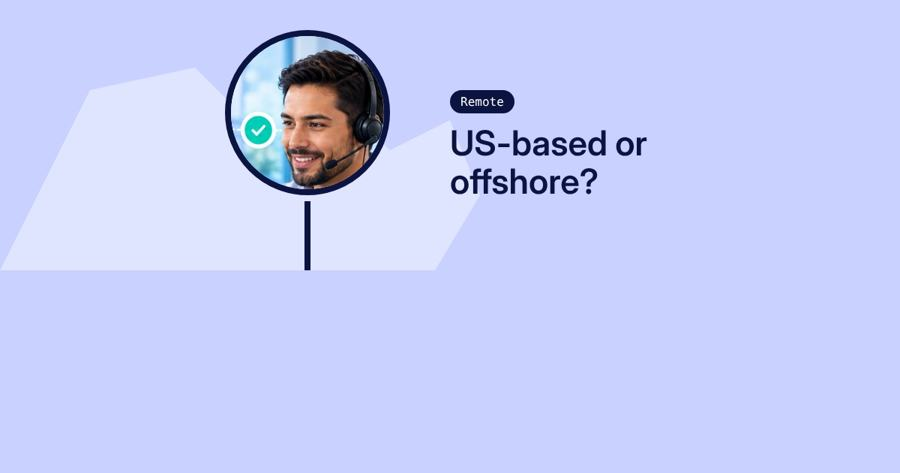
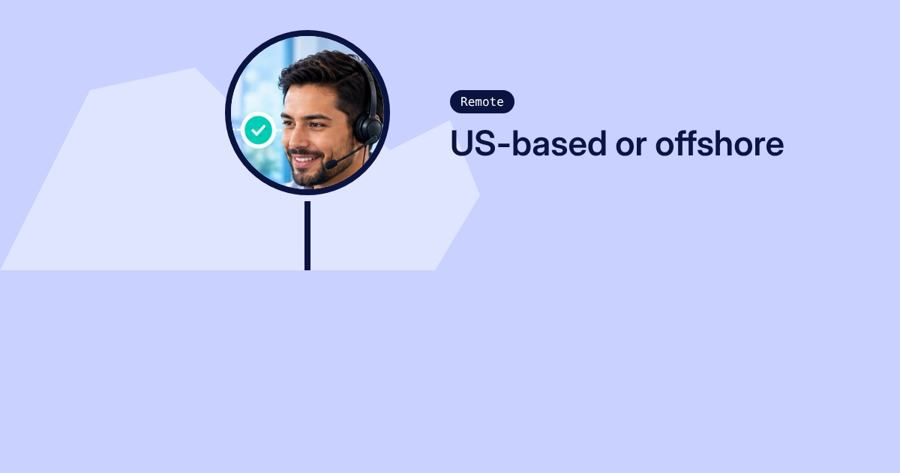
Add 10 title-led covers on the current brand gradient; remove question marks
- v5: cover template that rebuilds the gradient sampled from the current
  article images (no checkmark), adds a short headline and a visual of
  each article's subject, fitted to the listing card's visible area
- Remove the giant '?' style and '?' text from earlier designs
  (library styles 42, 68, 75; v2 interview-questions cover)

Claude-Session: https://claude.ai/code/session_01AHsVWFWnB54Ytwp6awPeMf

Changed region(s): [[0.4978, 0.3552, 0.6844, 0.4144], [0.7156, 0.2664, 0.8711, 0.3256]]

diff --git a/blog-image-research/v5/templates/cover.html b/blog-image-research/v5/templates/cover.html
@@ -1,0 +1,153 @@
+<!doctype html>
+<!-- Honest Taskers covers v5: your current blue-to-cyan gradient, a short headline, and a visual that shows the article's subject.
+     ?spec=<json> with "design": one of the keys in D below. Key content stays in the listing band (y < 353). -->
+<html><head><meta charset="utf-8"><script src="../../v3/templates/icons.js"></script>
+<style>
+  :root { --blue:#2345ff; --deep:#162da1; --teal:#2dd0e8; --ink:#0b1440; --font:"Sequel Sans","Inter Display","Inter","Helvetica Neue",Arial,sans-serif; }
+  * { box-sizing: border-box; margin: 0; padding: 0; }
+  html, body { width: 1200px; height: 630px; overflow: hidden; background: #fff; }
+  .c { position: relative; width: 1200px; height: 630px; overflow: hidden; font-family: var(--font); }
+  .abs { position: absolute; }
+  .card { position: absolute; background: rgba(255,255,255,.96); border-radius: 22px; box-shadow: 0 22px 50px rgba(10,30,140,.22), 0 2px 6px rgba(10,30,140,.08); }
+  .glass { position: absolute; background: rgba(255,255,255,.22); border: 1.5px solid rgba(255,255,255,.55); border-radius: 22px; backdrop-filter: blur(6px); }
+  .h { position: absolute; font-weight: 700; letter-spacing: -.025em; line-height: 1.02; }
+  .k { font-weight: 600; font-size: 18px; letter-spacing: .12em; text-transform: uppercase; }
+  .row { display: flex; align-items: center; gap: 14px; }
+  .pill { padding: 6px 14px; border-radius: 999px; font-size: 18px; font-weight: 600; white-space: nowrap; }
+  .panel { position: absolute; overflow: hidden; }
+  .panel img { position: absolute; display: block; }
+</style></head>
+<body><div class="c" id="c"></div>
+<script>
+  const s = htSpec({ design: 'scribe' });
+  const c = document.getElementById('c');
+  const B = '#2345ff', E = '#1344fd', CY = '#02d0fd', SKY = '#a9d2f7', T = '#2dd0e8', INK = '#0b1440', D0 = '#162da1';
+  const add = (cls, st, html = '') => { const e = document.createElement('div'); e.className = cls; Object.assign(e.style, st); e.innerHTML = html; c.appendChild(e); return e; };
+  const P = v => typeof v === 'number' ? v + 'px' : v;
+  const at = (x, y, w, h, extra = {}) => Object.fromEntries(Object.entries({ left: x, top: y, width: w, height: h, ...extra }).filter(([, v]) => v !== undefined).map(([k, v]) => [k, P(v)]));
+  const ico = (n, size, stroke = 8, col = B, acc = T) => htIcon(n, size, stroke, col, acc);
+  const svg = inner => add('abs', { left: 0, top: 0 }, `<svg width="1200" height="630">${inner}</svg>`);
+  function photo(src, focal, x, y, w, h, tx, ty, zoom = 1, radius = '0') {
+    const p = add('panel', at(x, y, w, h, { borderRadius: radius }));
+    const k = Math.max(w / 1200, h / 630) * zoom, iw = 1200 * k, ih = 630 * k;
+    let l = tx - focal[0] / 100 * iw, t = ty - focal[1] / 100 * ih;
+    l = Math.min(0, Math.max(w - iw, l)); t = Math.min(0, Math.max(h - ih, t));
+    const img = document.createElement('img'); img.src = '../../v3/' + src;
+    Object.assign(img.style, { width: iw + 'px', height: ih + 'px', left: l + 'px', top: t + 'px' });
+    p.appendChild(img); return p;
+  }
+
+  // The Honest Taskers gradient, rebuilt from the current covers: light sky on the left sweeping into electric blue,
+  // a cyan wave rising at the bottom right, soft haze and thin light streaks. No checkmark.
+  function htGradient(mode = 'right') {
+    const flip = mode === 'left'; const before = c.children.length;
+    setTimeout(() => {}, 0);
+    add('abs', at(0, 0, 1200, 630, { background: `linear-gradient(${flip ? 245 : 115}deg, #f2f8ff 0%, ${SKY} 30%, #5b9efd 55%, ${E} 82%, #0d3fd8 100%)` }));
+    add('abs', at(0, 0, 1200, 630, { background: `radial-gradient(60% 70% at ${flip ? 8 : 92}% 108%, ${CY} 0%, rgba(2,208,253,.55) 35%, transparent 70%)` }));
+    add('abs', at(0, 0, 1200, 630, { background: `radial-gradient(45% 55% at ${flip ? 85 : 15}% 10%, rgba(255,255,255,.85), transparent 70%)` }));
+    const sx = flip ? 'scale(-1,1) translate(-1200,0)' : '';
+    svg(`<g transform="${sx}"><path d="M560 630 C 760 520, 900 470, 1200 330 L1200 630Z" fill="${CY}" opacity=".55"/>
+      <path d="M700 630 C 860 560, 980 520, 1200 440 L1200 630Z" fill="#7fe9ff" opacity=".45"/>
+      ${[120, 175, 250, 300].map((y, i) => `<rect x="${640 + i * 40}" y="${y}" width="${420 - i * 60}" height="3" rx="1.5" fill="#fff" opacity="${.35 - i * .06}"/>`).join('')}</g>`);
+    [...c.children].slice(before).forEach(k => { k.dataset.bg = '1'; });
+  }
+  const head = (x, y, w, txt, kicker, col = INK, size = 56) => add('h', at(x, y, w, undefined, { color: col, fontSize: size }),
+    `${kicker ? `<div class="k" style="color:${col === INK ? B : T};margin-bottom:12px">${kicker}</div>` : ''}${txt}`);
+
+  const D = {};
+  // 1 How a Scribe Works in Epic: the visit's voice turns into a signed Epic note.
+  D.scribe = () => { htGradient();
+    head(80, 60, 430, 'Scribe in Epic,<br>start to finish', 'Software &amp; EHR');
+    svg(Array.from({ length: 26 }, (_, i) => { const h = 18 + 70 * Math.abs(Math.sin(i * .62)); return `<rect x="${540 + i * 9}" y="${170 - h / 2}" width="5" height="${h}" rx="2.5" fill="#fff" opacity=".95"/>`; }).join('') +
+      `<path d="M790 170 L830 170" stroke="#fff" stroke-width="4" stroke-linecap="round"/><path d="M820 160 L832 170 L820 180" stroke="#fff" stroke-width="4" fill="none" stroke-linecap="round"/>`);
+    add('card', at(850, 50, 290, undefined, { padding: '20px 22px' }), `<div class="row" style="justify-content:space-between"><b style="font:700 22px var(--font);color:${INK}">Visit note</b><span class="pill" style="background:#eef1ff;color:${B}">Epic</span></div>
+      ${['Chief complaint', 'History', 'Plan'].map((t, i) => `<div style="margin-top:12px;font:600 15px var(--font);color:#6b7396;text-transform:uppercase;letter-spacing:.06em">${t}</div><div style="margin-top:6px;height:10px;width:${[220, 190, 150][i]}px;border-radius:5px;background:#e3e7f6"></div>`).join('')}
+      <div class="pill" style="margin-top:16px;display:inline-block;background:rgba(45,208,232,.18);color:#0a8496">Ready to sign</div>`);
+  };
+  // 2 Telephone Triage VA Cost: an incoming call sorted by urgency, with a cost-guide tag (no price).
+  D.triage = () => { htGradient();
+    head(80, 60, 430, 'What a triage VA costs', 'Cost guide');
+    add('card', at(600, 40, 300, undefined, { padding: '20px 22px' }), `<div class="row"><div style="width:52px;height:52px;border-radius:50%;background:${B};display:flex;align-items:center;justify-content:center">${ico('phone', 32, 9, '#fff', T)}</div>
+      <div><b style="font:700 22px var(--font);color:${INK}">Incoming call</b><div style="font:500 16px var(--font);color:#6b7396">Triage line</div></div></div>
+      ${[['Urgent', '#162da1', '#fff'], ['Same day', B, '#fff'], ['Routine', '#eef1ff', B]].map(([t, b, f], i) => `<div class="row" style="margin-top:12px;justify-content:space-between;font:600 19px var(--font);color:${INK}"><span>${['Chest pain', 'Fever, 3 days', 'Refill request'][i]}</span><span class="pill" style="background:${b};color:${f};font-size:15px">${t}</span></div>`).join('')}`);
+    add('card', at(930, 70, 200, 120, { display: 'flex', flexDirection: 'column', justifyContent: 'center', alignItems: 'center', gap: '8px' }),
+      `${ico('coin', 50, 8)}<b style="font:700 20px var(--font);color:${INK}">Hourly vs. salary</b>`);
+  };
+  // 3 HIPAA: a patient chart with PHI masked behind a shield, plus the safeguards as chips.
+  D.hipaa = () => { htGradient('left');
+    head(660, 60, 460, 'HIPAA-safe virtual assistants', 'Compliance', INK);
+    add('card', at(110, 40, 330, 270, { padding: '22px' }), `<b style="font:700 22px var(--font);color:${INK}">Patient chart</b>
+      ${[['Name', 220], ['DOB', 120], ['Diagnosis', 200], ['Insurance ID', 170]].map(([l, w]) => `<div class="row" style="margin-top:14px;font:600 16px var(--font);color:#6b7396"><span style="width:110px">${l}</span><span style="height:16px;width:${w - 60}px;border-radius:4px;background:${INK};opacity:.85"></span></div>`).join('')}`);
+    add('abs', at(380, 120, 150, 170), ico('shield', 150, 6, '#fff', T));
+    ['BAA signed', 'HIPAA training', 'Access logs'].forEach((t, i) => add('pill', at(660 + i * 160, 220, undefined, undefined, { position: 'absolute', background: '#fff', color: B, boxShadow: '0 8px 18px rgba(10,30,140,.15)' }), t));
+  };
+  // 4 Bilingual Dental Receptionist vs In-House: one desk in grey, one bilingual VA desk in your gradient.
+  D.bilingual = () => {
+    htGradient();
+    add('abs', at(0, 0, 600, 630, { background: '#eef0f5' })).dataset.bg = '1';
+    head(60, 40, 480, 'In-house front desk', 'Option A', '#4a5175', 40);
+    add('card', at(60, 170, 420, undefined, { padding: '18px 20px', boxShadow: '0 10px 24px rgba(0,0,0,.08)' }), `<div class="row" style="font:600 20px var(--font);color:#4a5175">${ico('clinic', 34, 8, '#7a819f', '#7a819f')} One language · office hours</div>`);
+    head(660, 40, 480, 'Bilingual virtual receptionist', 'Option B', INK, 40);
+    [['Hola, ¿en qué le puedo ayudar?', 170, '#fff', INK], ['Hi! Booking for Tuesday works.', 240, B, '#fff']].forEach(([t, y, b, f]) =>
+      add('abs', at(660, y, undefined, undefined, { padding: '14px 20px', borderRadius: '22px 22px 22px 6px', background: b, color: f, font: '500 21px var(--font)', boxShadow: '0 10px 24px rgba(10,30,140,.16)' }), t));
+    add('abs', at(572, 150, 56, 56, { borderRadius: '50%', background: T, border: '6px solid #fff', display: 'flex', alignItems: 'center', justifyContent: 'center', font: '700 18px var(--font)', color: INK }), 'vs');
+  };
+  // 5 10 Best Medical Billing VA Companies: ranked company cards on the gradient, the count large.
+  D.best = () => { htGradient();
+    add('h', at(80, 30, 260, undefined, { fontSize: 200, color: INK, letterSpacing: '-.06em' }), '10');
+    head(84, 236, 420, 'best medical billing VA companies', '', INK, 36);
+    [0, 1, 2].forEach(i => add('card', at(560 + i * 34, 40 + i * 92, 420, 78, { display: 'flex', alignItems: 'center', gap: '16px', padding: '0 20px' }),
+      `<b style="font:700 30px var(--font);color:${B};width:44px">#${i + 1}</b><div style="flex:1"><div style="height:12px;width:${[210, 180, 160][i]}px;border-radius:6px;background:${INK};opacity:.85"></div><div style="margin-top:9px;height:10px;width:${[150, 130, 170][i]}px;border-radius:5px;background:#dfe4f4"></div></div>${ico(['document', 'coin', 'shield'][i], 34, 9)}`));
+  };
+  // 6 Staff Turnover: empty chairs with "open role" tags and a cost line climbing.
+  D.turnover = () => { htGradient();
+    head(80, 60, 430, 'The real cost of staff turnover', 'Practice operations');
+    const chair = x => `<g transform="translate(${x},90)"><rect x="0" y="0" width="70" height="80" rx="16" fill="#fff" opacity=".95"/><rect x="-6" y="80" width="82" height="22" rx="8" fill="#fff"/><path d="M35 102 V140 M10 150 H60" stroke="#fff" stroke-width="7" stroke-linecap="round"/></g>`;
+    svg(chair(600) + chair(740) + chair(880) + `<path d="M580 320 L700 300 L820 260 L960 200 L1080 120" stroke="#fff" stroke-width="6" fill="none" stroke-linejoin="round"/><circle cx="1080" cy="120" r="12" fill="${T}" stroke="#fff" stroke-width="5"/>`);
+    ['Open role', 'Open role', 'Training'].forEach((t, i) => add('pill', at(596 + i * 140, 50, undefined, undefined, { position: 'absolute', background: i === 2 ? T : '#fff', color: i === 2 ? INK : B, fontSize: '16px' }), t));
+  };
+  // 7 Virtual Veterinary Technician guide: a guide booklet plus a pet patient card.
+  D.vet = () => { htGradient('left');
+    head(680, 60, 440, 'The virtual vet tech guide', 'Complete guide');
+    add('abs', at(120, 30, 250, 310, { borderRadius: 10, background: D0, transform: 'rotate(-4deg)', boxShadow: '0 24px 44px rgba(10,30,140,.35)', padding: '26px 22px', color: '#fff' }),
+      `<div class="k" style="color:${T}">Guide</div><div style="font:700 32px/1.05 var(--font);margin-top:12px">Virtual veterinary technician</div><div style="position:absolute;right:20px;bottom:20px">${ico('paw', 80, 7, '#fff', T)}</div>`);
+    add('card', at(330, 120, 280, undefined, { padding: '18px 20px' }), `<div class="row">${ico('paw', 40, 9)}<div><b style="font:700 21px var(--font);color:${INK}">Bella · Labrador</b><div style="font:500 16px var(--font);color:#6b7396">Patient profile</div></div></div>
+      <div class="row" style="margin-top:12px;justify-content:space-between;font:600 18px var(--font);color:${INK}"><span>Rabies booster</span><span class="pill" style="background:rgba(45,208,232,.18);color:#0a8496;font-size:15px">Reminder sent</span></div>`);
+  };
+  // 8 A Day in the Life of a Referral Coordinator: the VA plus a timeline of the day's hand-offs.
+  D.referral = () => { htGradient();
+    photo(s.photo, s.focal, 60, 30, 300, 300, 150, 110, 1.9, '28px');
+    head(400, 30, 400, 'A day as a referral coordinator', '', INK, 36);
+    [['8:30', 'Referral sent to cardiology'], ['11:00', 'Prior auth approved'], ['2:15', 'Patient booked, Tue 9 AM']].forEach(([t, d], i) =>
+      add('card', at(400 + i * 40, 140 + i * 68, 380, 56, { display: 'flex', alignItems: 'center', gap: '14px', padding: '0 18px', borderRadius: 16 }),
+        `<b style="font:700 18px var(--font);color:${B};width:52px">${t}</b><span style="font:600 19px var(--font);color:${INK}">${d}</span>`));
+  };
+  // 9 Tasks to Delegate in a Chiropractic Practice: tasks moving from the front desk to the VA.
+  D.chiro = () => { htGradient();
+    head(80, 60, 420, 'Chiro tasks to hand off', 'Delegation');
+    add('card', at(560, 40, 240, 270, { padding: '18px' }), `<div class="row">${ico('clinic', 32, 9, '#7a819f', '#7a819f')}<b style="font:700 19px var(--font);color:#4a5175">Front desk</b></div>
+      ${['Phones', 'Check-in', 'Payments'].map(t => `<div style="margin-top:12px;padding:10px 12px;border-radius:10px;background:#f2f4fa;font:600 17px var(--font);color:#4a5175">${t}</div>`).join('')}`);
+    svg(`<path d="M810 170 C 850 150, 870 150, 900 170" stroke="#fff" stroke-width="5" fill="none" stroke-linecap="round"/><path d="M888 158 L902 171 L886 182" stroke="#fff" stroke-width="5" fill="none" stroke-linecap="round"/>`);
+    add('card', at(910, 40, 240, 270, { padding: '18px' }), `<div class="row">${ico('spine', 32, 9)}<b style="font:700 19px var(--font);color:${INK}">Your VA</b></div>
+      ${['Insurance checks', 'Recall calls', 'Visit reminders'].map(t => `<div style="margin-top:12px;padding:10px 12px;border-radius:10px;background:rgba(45,208,232,.16);font:600 17px var(--font);color:${INK}">${t}</div>`).join('')}`);
+  };
+  // 10 VMA Pay by Region: a dot map with region range bars (no figures).
+  D.pay = () => { htGradient('left');
+    head(720, 60, 420, 'VMA pay, region by region', 'Pay guide');
+    let g = ''; for (let y = 30; y < 330; y += 14) for (let x = 60; x < 640; x += 14) {
+      const nx = (x - 350) / 290, ny = (y - 180) / 150, land = Math.sin(nx * 5.2) * Math.cos(ny * 4.1) + Math.sin(nx * 2 + ny * 3) * .6 > -.25 && nx * nx + ny * ny * 1.4 < 1.05;
+      if (land) g += `<circle cx="${x}" cy="${y}" r="3.2" fill="#fff" opacity=".85"/>`; }
+    [[170, 130], [330, 210], [500, 150]].forEach(([x, y]) => g += `<circle cx="${x}" cy="${y}" r="13" fill="${T}" stroke="#fff" stroke-width="4"/>`);
+    svg(g);
+    add('card', at(720, 214, 400, undefined, { padding: '14px 20px' }), [['North America', .3, .8], ['Latin America', .15, .5], ['Philippines', .1, .4]].map(([r, a, b], i) =>
+      `<div style="display:flex;align-items:center;gap:12px;margin:8px 0;font:600 17px var(--font);color:${INK}"><span style="width:140px">${r}</span><span style="flex:1;height:12px;border-radius:6px;background:#eef1ff;position:relative"><i style="position:absolute;left:${a * 100}%;width:${(b - a) * 100}%;top:0;bottom:0;border-radius:6px;background:${[D0, B, T][i]}"></i></span></div>`).join(''));
+  };
+
+  // Build the design, then fit everything except the gradient into the area the listing card shows
+  // (x 120-1080), scaled to 80% so headlines never get cropped at the card's edges.
+  const firstContent = { n: 0 }; const _ht = htGradient;
+  (D[s.design] || D.scribe)();
+  const kids = [...c.children]; const wrap = document.createElement('div');
+  Object.assign(wrap.style, { position: 'absolute', left: '120px', top: '22px', width: '1200px', height: '630px', transform: 'scale(.8)', transformOrigin: '0 0' });
+  kids.filter(k => !k.dataset.bg).forEach(k => wrap.appendChild(k)); c.appendChild(wrap);
+</script></body></html>

diff --git a/blog-image-research/v5/page/index.html b/blog-image-research/v5/page/index.html
@@ -1,0 +1,45 @@
+<title>Title-Led Covers</title>
+<link rel="preconnect" href="https://fonts.googleapis.com"><link rel="preconnect" href="https://fonts.gstatic.com" crossorigin>
+<link rel="stylesheet" href="https://fonts.googleapis.com/css2?family=Bricolage+Grotesque:opsz,wght@12..96,600;12..96,700&family=Hanken+Grotesk:wght@400;500;600&family=IBM+Plex+Mono:wght@500&display=swap">
+<style>
+/* Layout: short intro, the gradient comparison, 10 covers in a 2-up grid, then the listing replica. */
+:root { --bg:#f5f6fb; --surface:#fff; --ink:#0f1640; --muted:#5a6286; --line:#dde1f0; --accent:#2345ff;
+  --display:"Bricolage Grotesque","Hanken Grotesk",system-ui,sans-serif; --body:"Hanken Grotesk",system-ui,sans-serif; --mono:"IBM Plex Mono",ui-monospace,monospace; }
+@media (prefers-color-scheme: dark) { :root:not([data-theme="light"]) { --bg:#0b1030; --surface:#131a45; --ink:#eef1ff; --muted:#a9b0d6; --line:#27305f; --accent:#7d8dff; color-scheme:dark } }
+:root[data-theme="dark"] { --bg:#0b1030; --surface:#131a45; --ink:#eef1ff; --muted:#a9b0d6; --line:#27305f; --accent:#7d8dff; color-scheme:dark }
+body { background:var(--bg); color:var(--ink); font:16px/1.6 var(--body); }
+.wrap { max-width:1180px; margin:0 auto; padding-inline:20px; padding-block:40px 80px; }
+h1,h2 { font-family:var(--display); text-wrap:balance; letter-spacing:-.015em; line-height:1.1; margin:0; }
+h1 { font-size:clamp(2rem,5vw,3rem); max-width:22ch; } h2 { font-size:1.6rem; margin-top:52px; }
+.eyebrow { font:500 .76rem var(--mono); letter-spacing:.08em; text-transform:uppercase; color:var(--accent); margin-bottom:10px; }
+.lede { max-width:66ch; color:var(--muted); font-size:1.06rem; margin-top:14px; }
+.grid { display:grid; grid-template-columns:repeat(auto-fill,minmax(440px,1fr)); gap:24px; margin-top:20px; }
+figure { margin:0; min-width:0; } figure img { width:100%; border-radius:12px; display:block; border:1px solid var(--line); }
+figcaption { margin-top:10px; display:grid; gap:2px; } figcaption b { font-family:var(--display); font-size:1rem; } figcaption span { color:var(--muted); font-size:.9rem; }
+.pair { display:grid; grid-template-columns:1fr 1fr; gap:20px; margin-top:16px; }
+.pair figcaption { font:500 .78rem var(--mono); color:var(--muted); margin:0 0 8px; }
+.listing { display:grid; grid-template-columns:minmax(0,1fr) minmax(0,1fr); gap:28px; margin-top:16px; align-items:start; }
+.listing img { width:100%; border:1px solid var(--line); border-radius:10px; background:#fff; }
+ul { padding-left:1.2em; } li { margin:6px 0; }
+@media (max-width:760px) { .grid { grid-template-columns:1fr; } .pair, .listing { grid-template-columns:1fr; } }
+</style>
+<div class="wrap">
+<div class="eyebrow">Cover designs · round 6</div>
+<h1>10 covers that show what each article is about</h1>
+<p class="lede">These use the gradient from your current article images, add a short headline the way Aircall, Grammarly and Lattice do, and build a visual from the article's own subject. No question marks, no checkmark stamp, no prices.</p>
+<h2>Your gradient, kept</h2>
+<div class="pair"><figure><figcaption>Current cover</figcaption><img src="a/current.jpg" alt="Current Honest Taskers cover"></figure>
+<figure><figcaption>Gradient rebuilt, without the checkmark</figcaption><img src="a/01-scribe.jpg" alt="New cover using the same gradient"></figure></div>
+<p class="lede">Sampled from your current images: light sky blue on the left sweeping into electric blue (#1344fd to #2e64fd), a cyan wave (#02d0fd) rising at the bottom right, soft haze and thin light streaks.</p>
+<h2>The 10 designs</h2>
+<div class="grid"><figure><img src="a/01-scribe.jpg" alt="How a Scribe Works in Epic?"><figcaption><b>How a Scribe Works in Epic?</b><span>Voice waveform turning into a signed visit note, tagged Epic</span></figcaption></figure><figure><img src="a/02-triage.jpg" alt="How Much Does a Telephone Triage Virtual Assistant Cost?"><figcaption><b>How Much Does a Telephone Triage Virtual Assistant Cost?</b><span>An incoming call sorted into Urgent, Same day and Routine</span></figcaption></figure><figure><img src="a/03-hipaa.jpg" alt="Can a Virtual Assistant Be HIPAA Compliant? Safeguards, Training and BAAs"><figcaption><b>Can a Virtual Assistant Be HIPAA Compliant? Safeguards, Training and BAAs</b><span>A patient chart with PHI masked behind a shield, plus BAA, training and access-log chips</span></figcaption></figure><figure><img src="a/04-bilingual.jpg" alt="Bilingual Virtual Dental Receptionist vs. In-House Staff: Cost, Pros, and Which to Choose"><figcaption><b>Bilingual Virtual Dental Receptionist vs. In-House Staff: Cost, Pros, and Which to Choose</b><span>In-house desk in grey beside a bilingual VA chat in your gradient</span></figcaption></figure><figure><img src="a/05-best.jpg" alt="10 Best Medical Billing Virtual Assistant Companies (2026)"><figcaption><b>10 Best Medical Billing Virtual Assistant Companies (2026)</b><span>The count, large, beside ranked company cards</span></figcaption></figure><figure><img src="a/06-turnover.jpg" alt="Medical Office Staff Turnover, What It Costs and How to Cut It"><figcaption><b>Medical Office Staff Turnover, What It Costs and How to Cut It</b><span>Empty chairs tagged &quot;Open role&quot; and a climbing cost line</span></figcaption></figure><figure><img src="a/07-vet.jpg" alt="Virtual Veterinary Technician: The Complete Guide"><figcaption><b>Virtual Veterinary Technician: The Complete Guide</b><span>A guide booklet plus a pet patient card with a vaccine reminder</span></figcaption></figure><figure><img src="a/08-referral.jpg" alt="A Day in the Life of a Virtual Referral Coordinator"><figcaption><b>A Day in the Life of a Virtual Referral Coordinator</b><span>The VA beside a timeline of the day&#x27;s referrals</span></figcaption></figure><figure><img src="a/09-chiro.jpg" alt="Tasks to Delegate in a Chiropractic Practice"><figcaption><b>Tasks to Delegate in a Chiropractic Practice</b><span>Tasks moving from the front desk to the VA</span></figcaption></figure><figure><img src="a/10-pay.jpg" alt="How Much Do Virtual Medical Assistants Earn? Sourced Pay Ranges by Region"><figcaption><b>How Much Do Virtual Medical Assistants Earn? Sourced Pay Ranges by Region</b><span>A dot map with pay-range bars by region (no figures)</span></figcaption></figure></div>
+<h2>On your articles page</h2>
+<div class="listing"><img src="a/listing.jpg" alt="The 10 covers in a replica of the honesttaskers.com listing card">
+<div><p>Your card shows only the top 56% of each image and trims about 115px from each side, so every headline and visual sits inside that area.</p>
+<h3>Rules used</h3><ul>
+<li>Headline of 3 to 6 words that names the topic, never the full title.</li>
+<li>The visual shows the article's subject: the call, the chart, the note, the map.</li>
+<li>One gradient for every cover; the layout and visual change per article.</li>
+<li>No "?" symbols, no checkmark stamp, no prices.</li>
+</ul></div></div>
+</div>

diff --git a/blog-image-research/v5/templates/ht-listing-mock.html b/blog-image-research/v5/templates/ht-listing-mock.html
@@ -1,0 +1,39 @@
+<!doctype html>
+<!-- Replica of the honesttaskers.com/articles card, measured from a 2x screenshot (2026-10-06):
+     image box 456x296 (about 1.54:1) with object-fit: cover; a white text panel starts 166px down the image,
+     inset 20px from the left and running 20px past the right edge; dotted frame; two staggered columns.
+     ?set=after|before&w=1000|390 -->
+<html><head><meta charset="utf-8">
+<style>
+  body { margin: 0; background: #ffffff; font-family: "Source Sans 3", "Inter", Arial, sans-serif; }
+  .wrap { width: 1000px; margin: 0 auto; padding: 40px 0 80px; display: grid; grid-template-columns: 1fr 1fr; column-gap: 36px; }
+  .col.right { padding-top: 40px; }
+  .card { position: relative; width: 456px; margin: 0 0 60px 12px; padding-bottom: 14px; }
+  .card::before { content: ""; position: absolute; inset: -10px 6px -10px -10px; border: 2px dotted #d6d9e0; z-index: 0; }
+  .img { position: relative; z-index: 1; width: 456px; height: 296px; overflow: hidden; }
+  .img img { width: 100%; height: 100%; object-fit: cover; display: block; }
+  .panel { position: relative; z-index: 2; margin: -130px -20px 0 20px; background: #fff; padding: 20px 20px 22px; box-shadow: 0 1px 2px rgba(0,0,0,.04); min-height: 140px; }
+  .t { font-size: 19px; line-height: 1.32; color: #1e3264; margin-bottom: 14px; }
+  .meta { display: flex; gap: 10px; align-items: center; margin-bottom: 14px; }
+  .pill { background: #eef0f4; border-radius: 12px; padding: 6px 9px; font-size: 7.5px; letter-spacing: .02em; color: #1e3264; text-transform: uppercase; }
+  .rt { font-size: 8px; color: #8a90a0; }
+  .ex { font-size: 9.5px; line-height: 1.55; color: #7a8090; width: 340px; }
+  .arrow { position: absolute; right: 20px; bottom: 22px; width: 32px; height: 32px; border: 1.5px solid #2345ff; color: #2345ff; display: flex; align-items: center; justify-content: center; font-size: 16px; }
+  body.m .wrap { width: 358px; grid-template-columns: 1fr; padding: 24px 16px; } body.m .col.right { padding-top: 0; }
+  body.m .card, body.m .img { width: 330px; } body.m .ex { width: 230px; } body.m .img { height: 214px; } body.m .panel { margin-top: -94px; }
+  .lbl { grid-column: 1 / -1; font: 600 13px Inter, Arial; color: #5a6488; margin: 0 0 22px 2px; }
+</style></head>
+<body><div class="wrap" id="w"></div>
+<script src="contact-sheet-data.js"></script>
+<script>
+  const q = new URLSearchParams(location.search), set = q.get('set') || 'after', w = +(q.get('w') || 1000);
+  if (w < 600) document.body.classList.add('m');
+  const items = window.CS[set].slice(0, w < 600 ? 4 : 10).map(i => ({ ...i, img: i.img.replace('../renders/', '../renders/').replace('../research/', '../research/') }));
+  const card = i => `<div class="card"><div class="img"><img src="${i.img}"></div><div class="panel"><div class="t">${i.title}</div>
+    <div class="meta"><span class="pill">${i.cat}</span><span class="rt">11 min read</span></div>
+    <div class="ex">A short excerpt sits here, two or three lines long, describing what the article covers for practice owners and office managers.</div>
+    <div class="arrow">&rarr;</div></div></div>`;
+  const L = items.filter((_, k) => k % 2 === 0), R = items.filter((_, k) => k % 2 === 1);
+  document.getElementById('w').innerHTML = `<div class="lbl">${set === 'after' ? 'Proposed images' : 'Current images'} in a replica of the honesttaskers.com/articles card${w < 600 ? ' (mobile layout assumed)' : ''}</div>` +
+    (w < 600 ? `<div class="col">${items.map(card).join('')}</div>` : `<div class="col">${L.map(card).join('')}</div><div class="col right">${R.map(card).join('')}</div>`);
+</script></body></html>

diff --git a/blog-image-research/v5/templates/contact-sheet-data.js b/blog-image-research/v5/templates/contact-sheet-data.js
@@ -1,0 +1,1 @@
+window.CS={"after": [{"img": "../renders/01-scribe.png", "title": "How a Scribe Works in Epic?", "cat": "Software & EHR"}, {"img": "../renders/02-triage.png", "title": "How Much Does a Telephone Triage Virtual Assistant Cost?", "cat": "Cost"}, {"img": "../renders/03-hipaa.png", "title": "Can a Virtual Assistant Be HIPAA Compliant? Safeguards, Training and BAAs", "cat": "Compliance"}, {"img": "../renders/04-bilingual.png", "title": "Bilingual Virtual Dental Receptionist vs. In-House Staff: Cost, Pros, and Which to Choose", "cat": "Comparison"}, {"img": "../renders/05-best.png", "title": "10 Best Medical Billing Virtual Assistant Companies (2026)", "cat": "Best-of"}, {"img": "../renders/06-turnover.png", "title": "Medical Office Staff Turnover, What It Costs and How to Cut It", "cat": "Cost"}, {"img": "../renders/07-vet.png", "title": "Virtual Veterinary Technician: The Complete Guide", "cat": "Guide"}, {"img": "../renders/08-referral.png", "title": "A Day in the Life of a Virtual Referral Coordinator", "cat": "Role explainer"}, {"img": "../renders/09-chiro.png", "title": "Tasks to Delegate in a Chiropractic Practice", "cat": "Tasks"}, {"img": "../renders/10-pay.png", "title": "How Much Do Virtual Medical Assistants Earn? Sourced Pay Ranges by Region", "cat": "Cost"}], "before": [{"img": "../renders/01-scribe.png", "title": "How a Scribe Works in Epic?", "cat": "Software & EHR"}, {"img": "../renders/02-triage.png", "title": "How Much Does a Telephone Triage Virtual Assistant Cost?", "cat": "Cost"}, {"img": "../renders/03-hipaa.png", "title": "Can a Virtual Assistant Be HIPAA Compliant? Safeguards, Training and BAAs", "cat": "Compliance"}, {"img": "../renders/04-bilingual.png", "title": "Bilingual Virtual Dental Receptionist vs. In-House Staff: Cost, Pros, and Which to Choose", "cat": "Comparison"}, {"img": "../renders/05-best.png", "title": "10 Best Medical Billing Virtual Assistant Companies (2026)", "cat": "Best-of"}, {"img": "../renders/06-turnover.png", "title": "Medical Office Staff Turnover, What It Costs and How to Cut It", "cat": "Cost"}, {"img": "../renders/07-vet.png", "title": "Virtual Veterinary Technician: The Complete Guide", "cat": "Guide"}, {"img": "../renders/08-referral.png", "title": "A Day in the Life of a Virtual Referral Coordinator", "cat": "Role explainer"}, {"img": "../renders/09-chiro.png", "title": "Tasks to Delegate in a Chiropractic Practice", "cat": "Tasks"}, {"img": "../renders/10-pay.png", "title": "How Much Do Virtual Medical Assistants Earn? Sourced Pay Ranges by Region", "cat": "Cost"}]};

diff --git a/blog-image-research/v4/page/index.html b/blog-image-research/v4/page/index.html
@@ -122,7 +122,7 @@ ol { max-width:70ch; padding-left:1.2em; } li { margin:6px 0; }
 <div class="ref">After Headspace</div><div class="use">Benefits · Benefits of a Virtual Assistant for Wellness Centers</div></figcaption></figure><figure class="card" data-fam="Graphic"><img src="a/s41.jpg" alt="Icon Grid Highlight cover" loading="lazy">
 <figcaption><div class="top"><span class="no">41</span><b>Icon Grid Highlight</b><span class="fam">Graphic</span></div>
 <div class="ref">After Zapier</div><div class="use">Tasks · Which Tasks Can You Delegate to a Veterinary Billing Virtual Assistant?</div></figcaption></figure><figure class="card" data-fam="Type"><img src="a/s42.jpg" alt="Giant Question cover" loading="lazy">
-<figcaption><div class="top"><span class="no">42</span><b>Giant Question</b><span class="fam">Type</span></div>
+<figcaption><div class="top"><span class="no">42</span><b>Interview Card</b><span class="fam">Type</span></div>
 <div class="ref">After Original (Phreesia Q&amp;A)</div><div class="use">Hiring · Bilingual Virtual Medical Receptionist Interview Questions</div></figcaption></figure><figure class="card" data-fam="Photo"><img src="a/s43.jpg" alt="ID Badge cover" loading="lazy">
 <figcaption><div class="top"><span class="no">43</span><b>ID Badge</b><span class="fam">Photo</span></div>
 <div class="ref">After Original</div><div class="use">Hiring · Bilingual Virtual Medical Assistant Job Description</div></figcaption></figure><figure class="card" data-fam="Product UI"><img src="a/s44.jpg" alt="Receipt cover" loading="lazy">

diff --git a/blog-image-research/v5/templates/render.js b/blog-image-research/v5/templates/render.js
@@ -1,0 +1,14 @@
+// Render v2 covers: node render.js [jobs.json] [outDir]
+const path = require('path'), fs = require('fs');
+const { chromium } = require(process.env.PW_MODULE || 'playwright');
+(async () => {
+  const [jf = path.join(__dirname, 'jobs.json'), out = path.join(__dirname, '..', 'renders')] = process.argv.slice(2);
+  const jobs = JSON.parse(fs.readFileSync(jf, 'utf8')); fs.mkdirSync(out, { recursive: true });
+  const b = await chromium.launch(), p = await b.newPage({ viewport: { width: 1200, height: 630 } });
+  for (const j of jobs) {
+    await p.goto('file://' + path.join(__dirname, 'cover.html') + '?spec=' + encodeURIComponent(JSON.stringify(j.spec)));
+    await p.waitForLoadState('networkidle'); await p.evaluate(() => document.fonts.ready); await p.waitForTimeout(150);
+    await p.screenshot({ path: path.join(out, j.out + '.png') });
+  }
+  await b.close(); console.log('rendered', jobs.length);
+})();

diff --git a/blog-image-research/v5/templates/render-ht-listing.js b/blog-image-research/v5/templates/render-ht-listing.js
@@ -1,0 +1,14 @@
+// Renders before/after in the honesttaskers.com listing-card replica (desktop 1000 CSS px @2x; mobile 390 @2x).
+const path = require('path');
+const { chromium } = require(process.env.PW_MODULE || 'playwright');
+(async () => {
+  const b = await chromium.launch();
+  for (const [set, w] of [['after', 1000], ['after', 390]]) {
+    const p = await b.newPage({ viewport: { width: w + 40, height: 800 }, deviceScaleFactor: 2 });
+    await p.goto('file://' + path.join(__dirname, 'ht-listing-mock.html') + `?set=${set}&w=${w}`);
+    await p.waitForLoadState('networkidle');
+    const out = path.join(__dirname, '..', 'renders', 'listing', `ht-listing-${set}-${w}.png`);
+    await p.screenshot({ path: out, fullPage: true }); console.log(out);
+  }
+  await b.close();
+})();

diff --git a/blog-image-research/v3/templates/styles-more.js b/blog-image-research/v3/templates/styles-more.js
@@ -254,7 +254,7 @@
   // 42 Giant question (FAQ / interview posts)
   S.question = () => {
     bg(TI);
-    txt(250, -40, '?', `font:800 460px/1 ${F};color:${B}`);
+    tile(250, 50, 250, 250, ico(s.icon || 'headset', 160, 6), { borderRadius: 60 });
     add('card', css({ left: 560, top: 90, width: 420, padding: '24px 28px' }), `<div style="font:600 18px ${F};color:${M};letter-spacing:.08em;text-transform:uppercase">Asked often</div><div style="font:700 30px/1.2 ${F};color:${INK};margin-top:10px">${s.q}</div>`);
   };
   // 43 ID badge (job descriptions / role spotlights)
